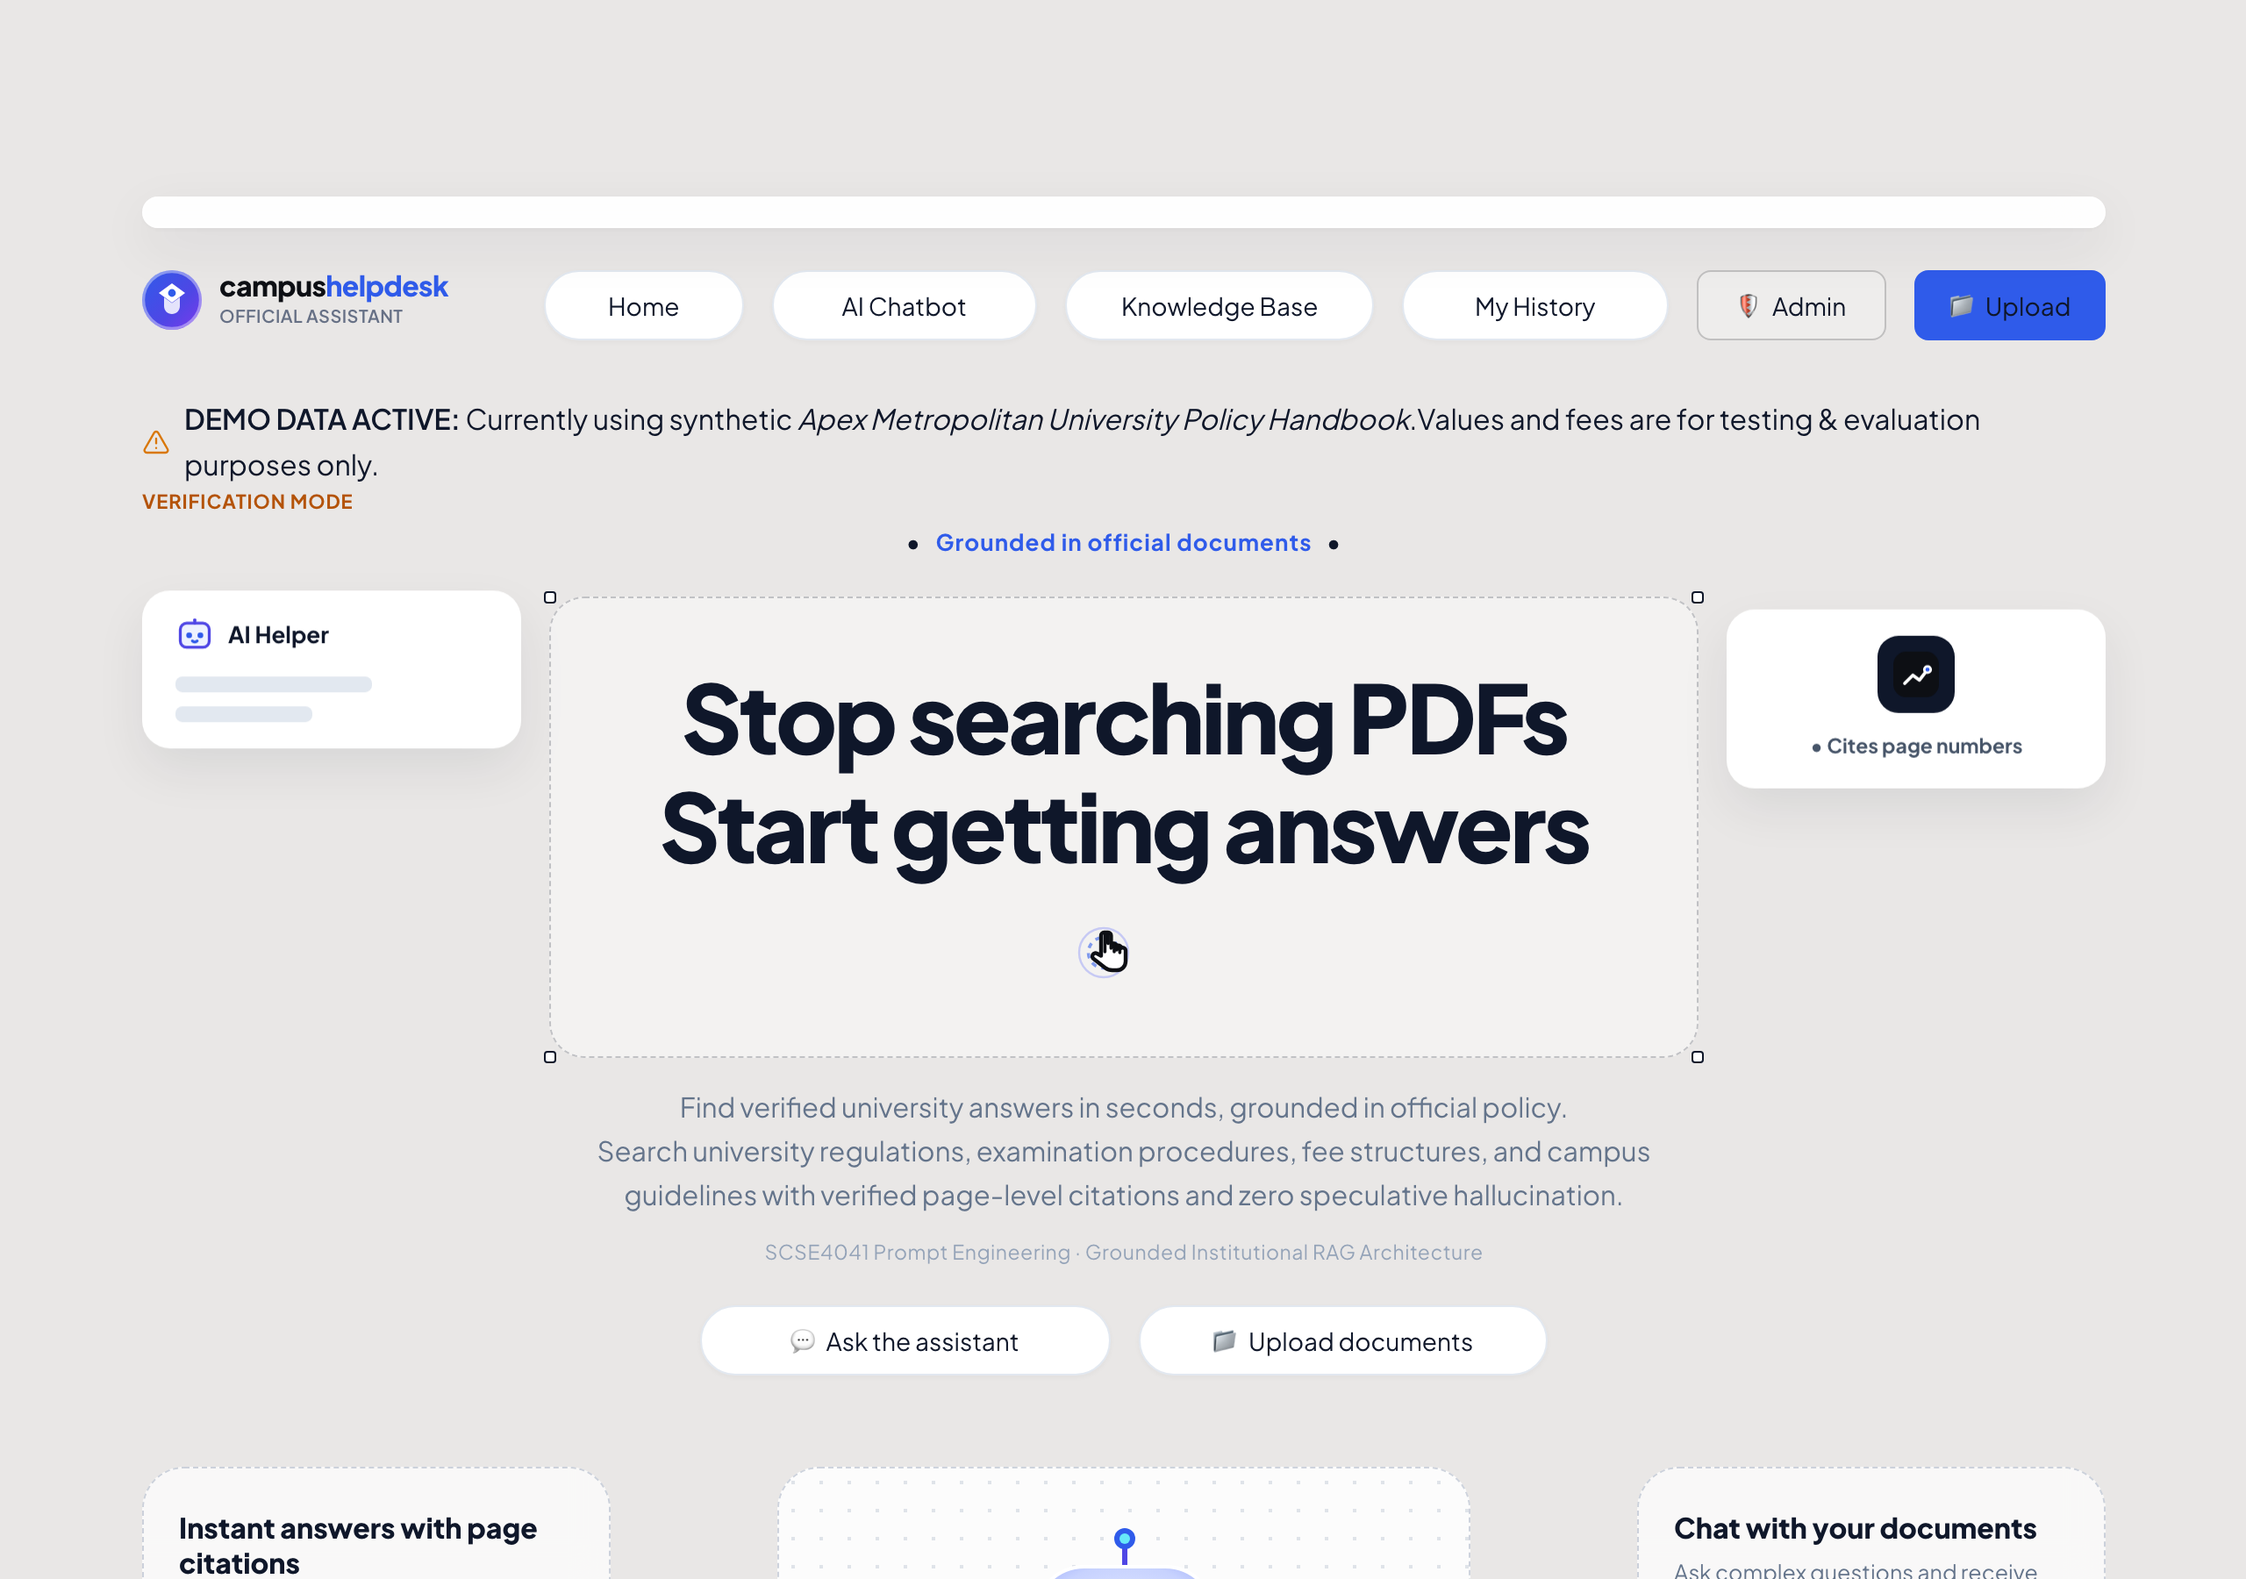
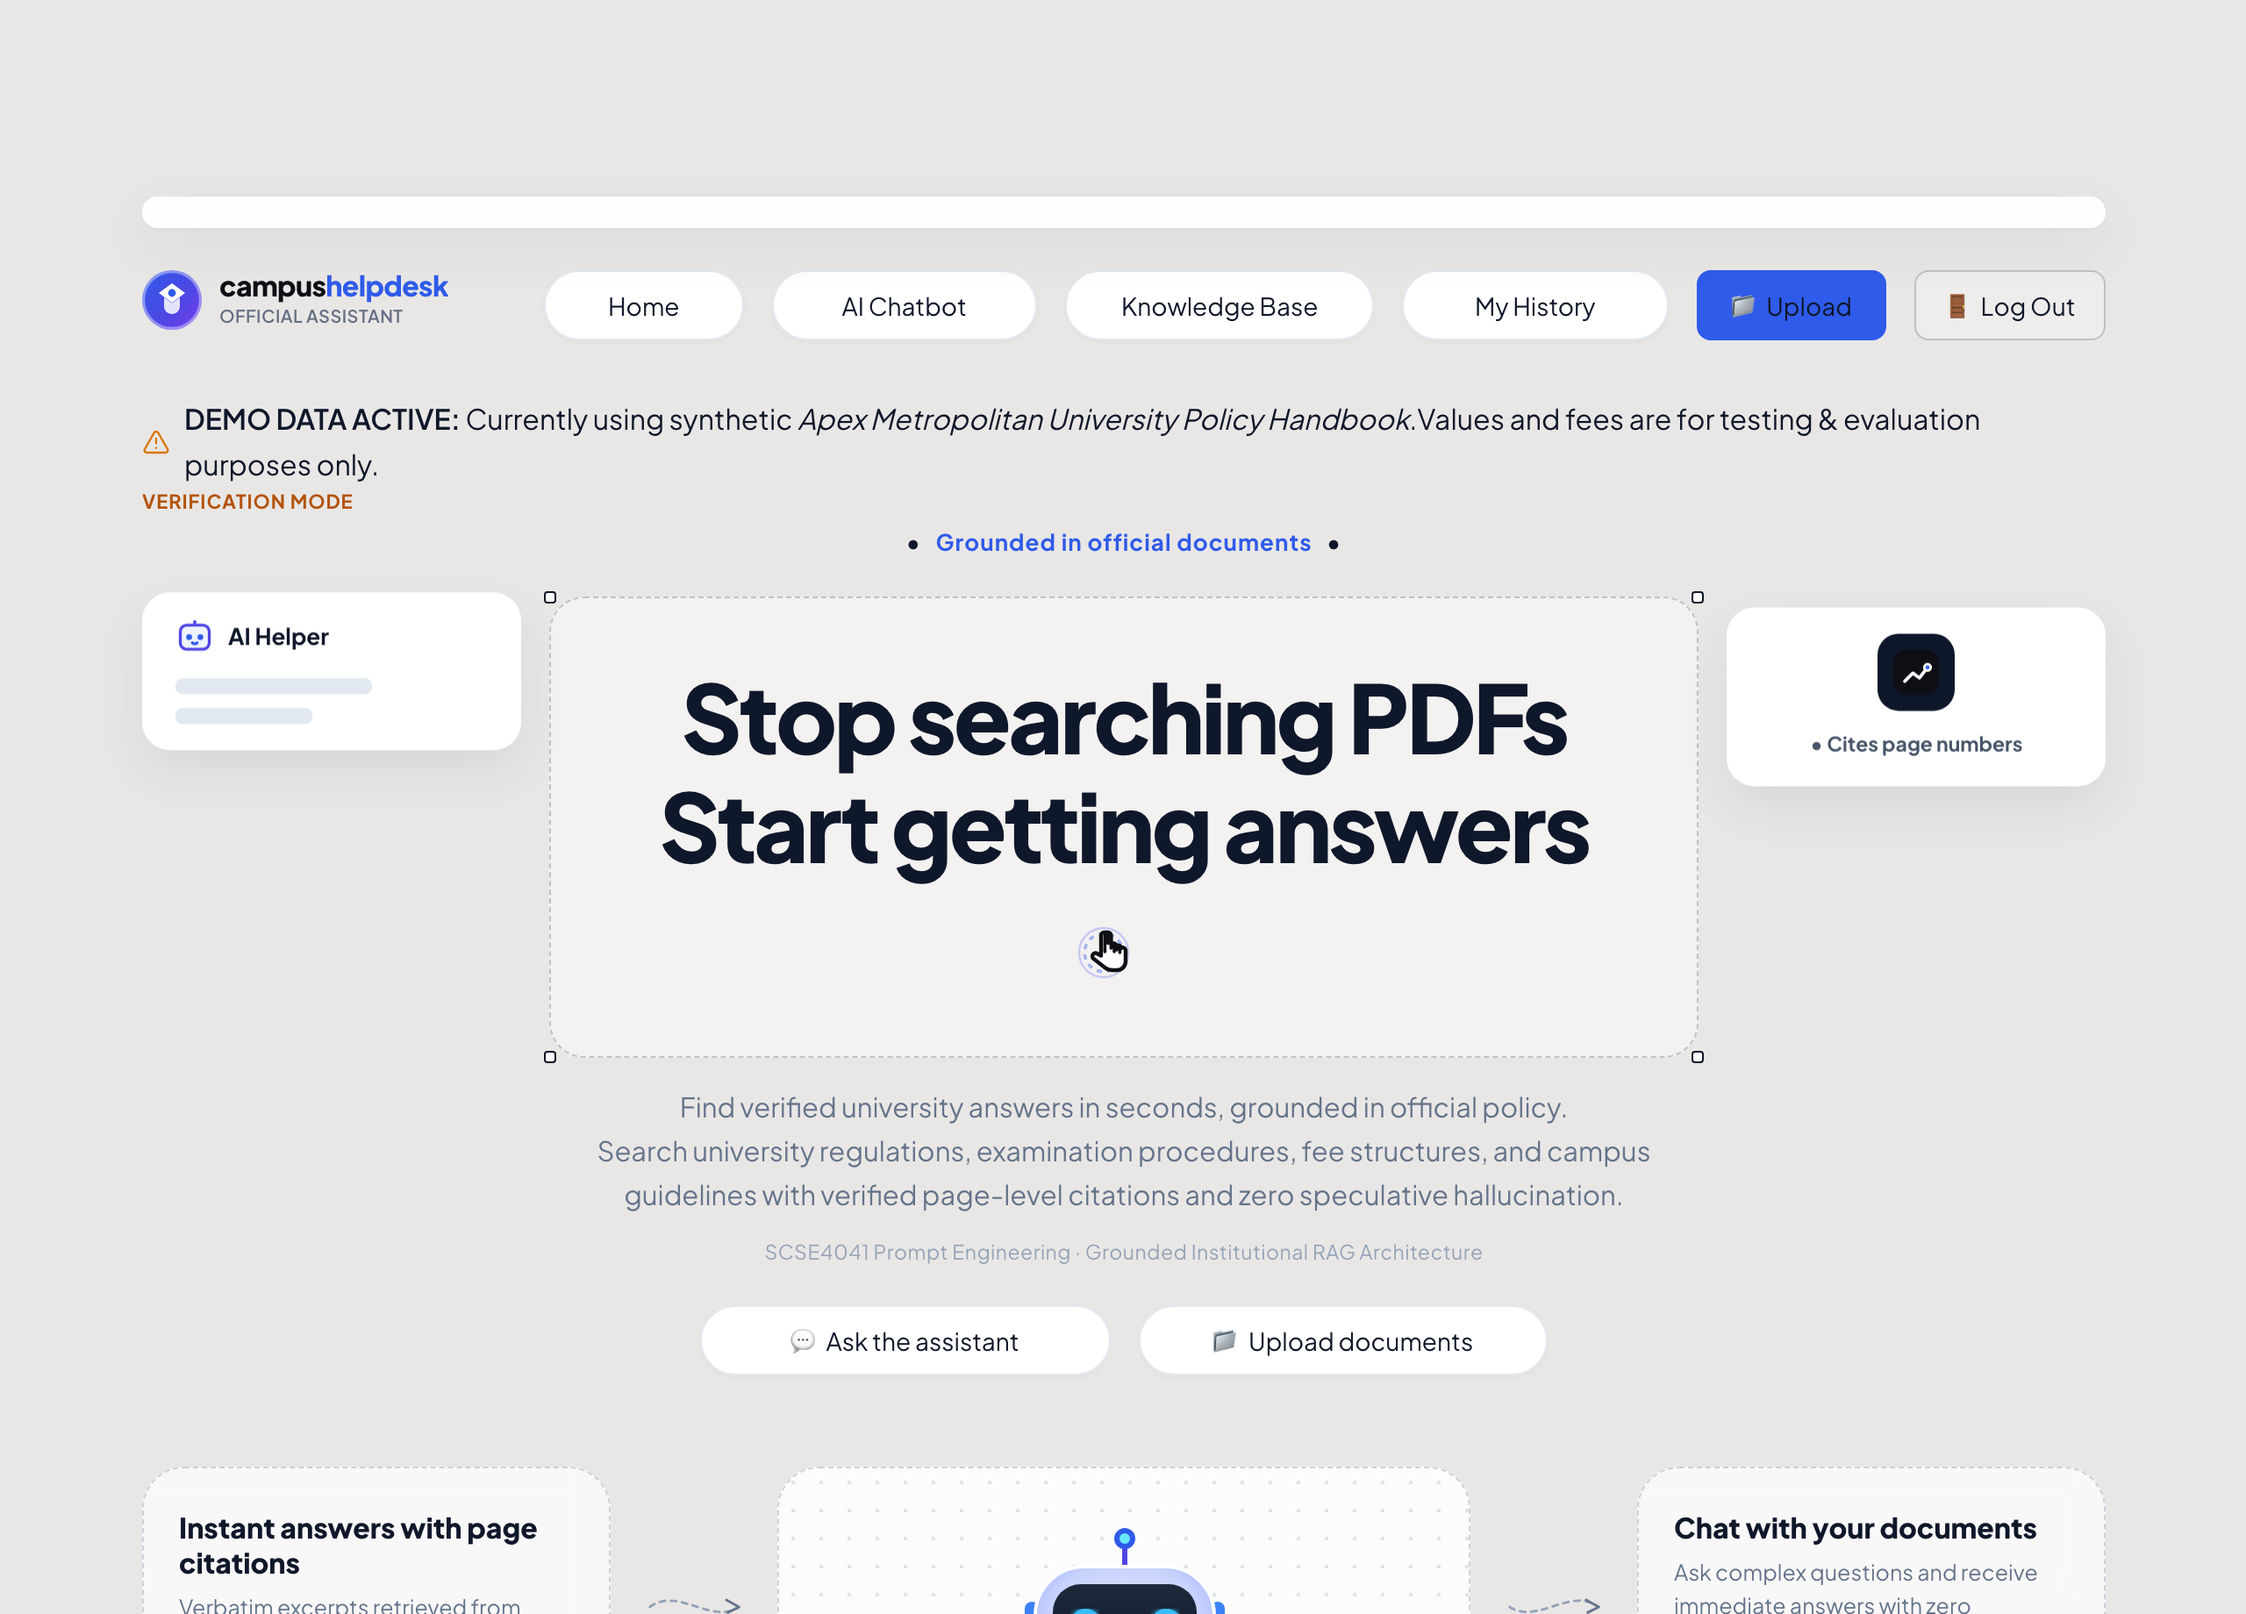
feat(ui,auth): add prominent top nav Log Out button, purge dev mode toggles, and enforce production auth

diff --git a/scripts/capture_auth_update.py b/scripts/capture_auth_update.py
@@ -1,10 +1,9 @@
 """
-Capture screenshots of the new Google Email OTP and Account Creation flows.
+Capture screenshots of the new Google Email OTP, Account Creation flows, Top Nav Logout, and Clean UI.
 """
 
 import time
 import sys
-import re
 import shutil
 from pathlib import Path
 
@@ -13,6 +12,7 @@ sys.path.insert(0, str(PROJECT_ROOT))
 
 from playwright.sync_api import sync_playwright
 from auth.db import get_db_connection
+from auth.session import create_user_session
 
 SCREENSHOTS_DIR = PROJECT_ROOT / "docs" / "screenshots"
 SCREENSHOTS_DIR.mkdir(parents=True, exist_ok=True)
@@ -61,37 +61,32 @@ def run():
         p_create = SCREENSHOTS_DIR / "00_login_page_create.png"
         page.screenshot(path=str(p_create), full_page=True)
 
-        # Switch back to Tab 0 for testing Google / Email OTP flow
-        print("Testing Google / Email OTP flow...")
-        st_tabs.nth(0).click()
-        time.sleep(1)
+        # Now authenticate with a valid session to capture Home and Top Nav Logout button
+        print("Creating authenticated session for Admin...")
+        admin_session = create_user_session("admin", ip_address="127.0.0.1")
 
-        page.fill("input[aria-label='Google / Campus Email Address']", "test_student@campus.edu")
-        page.click("button:has-text('Send Verification Code to Email')")
+        print("Navigating to Home with session token...")
+        page.goto(f"http://localhost:8501/?session_token={admin_session}&page=Home", wait_until="networkidle")
         time.sleep(3)
 
-        print("Capturing 00_otp_verification.png...")
-        p_otp = SCREENSHOTS_DIR / "00_otp_verification.png"
-        page.screenshot(path=str(p_otp), full_page=True)
+        print("Capturing 01_home_page.png showing top nav with Log Out button...")
+        p_home = SCREENSHOTS_DIR / "01_home_page.png"
+        page.screenshot(path=str(p_home), full_page=True)
 
-        # Extract OTP and verify
-        content = page.content()
-        match = re.search(r'verification code is:\s*<strong[^>]*>(\d{6})</strong>', content, re.IGNORECASE)
-        if not match:
-            match = re.search(r'(\d{6})', content)
+        print("Navigating to AI Chatbot page...")
+        page.click("button:has-text('AI Chatbot')")
+        time.sleep(3)
+        p_chat = SCREENSHOTS_DIR / "02_chatbot_with_sources.png"
+        page.screenshot(path=str(p_chat), full_page=True)
 
-        if match:
-            code = match.group(1)
-            print(f"Submitting OTP code: {code}")
-            page.fill("input[aria-label='Enter 6-Digit Code']", code)
-            page.click("button:has-text('Verify Code & Sign In')")
-            time.sleep(4)
-
-            # Capture Chatbot Page after login
-            print("Capturing 02_chatbot_with_sources.png...")
-            p_chat = SCREENSHOTS_DIR / "02_chatbot_with_sources.png"
-            page.screenshot(path=str(p_chat), full_page=True)
-            print("Login and navigation verified successfully!")
+        # Now test clicking the Log Out button in the top navigation bar!
+        print("Clicking top navigation Log Out button...")
+        logout_btn = page.locator("button:has-text('Log Out')").first
+        if logout_btn.count() > 0:
+            logout_btn.click()
+            time.sleep(3)
+            print("Successfully logged out! Returned to Login Portal.")
+            page.screenshot(path=str(SCREENSHOTS_DIR / "00_after_logout.png"), full_page=True)
 
         browser.close()
 

diff --git a/app.py b/app.py
@@ -206,14 +206,7 @@ with nav_links_col:
                 st.rerun()
 
 with nav_auth_col:
-    role_col, action_col = st.columns([1.1, 1.1], gap="small")
-    with role_col:
-        other_role = "Student" if u_role == "Admin" else "Admin"
-        label = "🎓 Student" if u_role == "Student" else "🛡 Admin"
-        if st.button(label, key="nav_role_toggle_btn", use_container_width=True, help="Toggle role for testing"):
-            curr_user["role"] = other_role
-            st.session_state.auth_user = curr_user
-            st.rerun()
+    action_col, logout_col = st.columns([1.1, 1.1], gap="small")
     with action_col:
         if u_role == "Admin":
             if st.button("📁 Upload", key="nav_upload_docs_btn", type="primary", use_container_width=True, help="Knowledge Base"):
@@ -223,6 +216,18 @@ with nav_auth_col:
             if st.button("💬 Ask AI", key="nav_ask_btn", type="primary", use_container_width=True, help="AI Chatbot"):
                 st.session_state.page = "AI Chatbot"
                 st.rerun()
+    with logout_col:
+        if st.button("🚪 Log Out", key="nav_top_logout_btn", use_container_width=True, help="Sign out of your session"):
+            token = st.session_state.get("session_token")
+            if token:
+                revoke_session(token)
+            st.session_state.auth_user = None
+            st.session_state.session_token = None
+            st.session_state.pending_auth = None
+            if "session_token" in st.query_params:
+                del st.query_params["session_token"]
+            st.session_state.auth_view = "login"
+            st.rerun()
 
 st.markdown('</div></div>', unsafe_allow_html=True)
 
@@ -252,20 +257,6 @@ with st.sidebar:
         </div>
     </div>
     """), unsafe_allow_html=True)
-
-    # 1-Click Role Switch for instant evaluation
-    st.markdown("<div style='font-size:11px; font-weight:700; color:var(--text-muted); text-transform:uppercase; margin-bottom:4px;'>Role Switcher (Evaluation):</div>", unsafe_allow_html=True)
-    auth_c1, auth_c2 = st.columns(2, gap="small")
-    with auth_c1:
-        if st.button("🎓 Student Mode", use_container_width=True, key="quick_student_btn"):
-            curr_user["role"] = "Student"
-            st.session_state.auth_user = curr_user
-            st.rerun()
-    with auth_c2:
-        if st.button("🛡 Admin Mode", use_container_width=True, key="quick_admin_btn"):
-            curr_user["role"] = "Admin"
-            st.session_state.auth_user = curr_user
-            st.rerun()
 
     # Navigation shortcuts in sidebar
     st.markdown("<div style='font-size:11px; font-weight:700; color:var(--text-muted); text-transform:uppercase; margin-top:12px; margin-bottom:6px;'>Account Views:</div>", unsafe_allow_html=True)

diff --git a/ui/pages/login.py b/ui/pages/login.py
@@ -113,17 +113,6 @@ def render_login_page():
             # TAB 2: INSTITUTIONAL ID + PASSWORD
             # ==================================================================
             with tab_id:
-                # Demo credentials hint for evaluators
-                st.markdown("""
-                <div style="background:#F1F5F9; border:1px solid #E2E8F0; border-radius:8px; padding:10px 14px; margin:8px 0 14px 0; font-size:12px; color:#475569;">
-                    <div style="font-weight:600; margin-bottom:3px; color:#1E293B;">Demo Evaluation Credentials:</div>
-                    <div style="display:flex; justify-content:space-between;">
-                        <span><strong>Admin:</strong> <code>admin</code> / <code>admin123</code></span>
-                        <span><strong>Student:</strong> <code>student</code> / <code>student123</code></span>
-                    </div>
-                </div>
-                """, unsafe_allow_html=True)
-
                 with st.form("login_credentials_form", clear_on_submit=False):
                     user_id_input = st.text_input(
                         "User ID / Student Roll Number",

diff --git a/config/settings.py b/config/settings.py
@@ -47,7 +47,7 @@ MAIL_FROM_NAME = os.getenv("MAIL_FROM_NAME", "Campus Helpdesk Security").strip()
 OTP_TTL_SECONDS = int(os.getenv("OTP_TTL_SECONDS", "300"))
 SESSION_TTL_MINUTES = int(os.getenv("SESSION_TTL_MINUTES", "480"))
 SESSION_IDLE_TIMEOUT_MINUTES = int(os.getenv("SESSION_IDLE_TIMEOUT_MINUTES", "30"))
-DEV_MODE = os.getenv("DEV_MODE", "true").strip().lower() in ("true", "1", "yes")
+DEV_MODE = os.getenv("DEV_MODE", "false").strip().lower() in ("true", "1", "yes")
 
 # Model & API settings
 GEMINI_API_KEY = os.getenv("GEMINI_API_KEY", "").strip()
